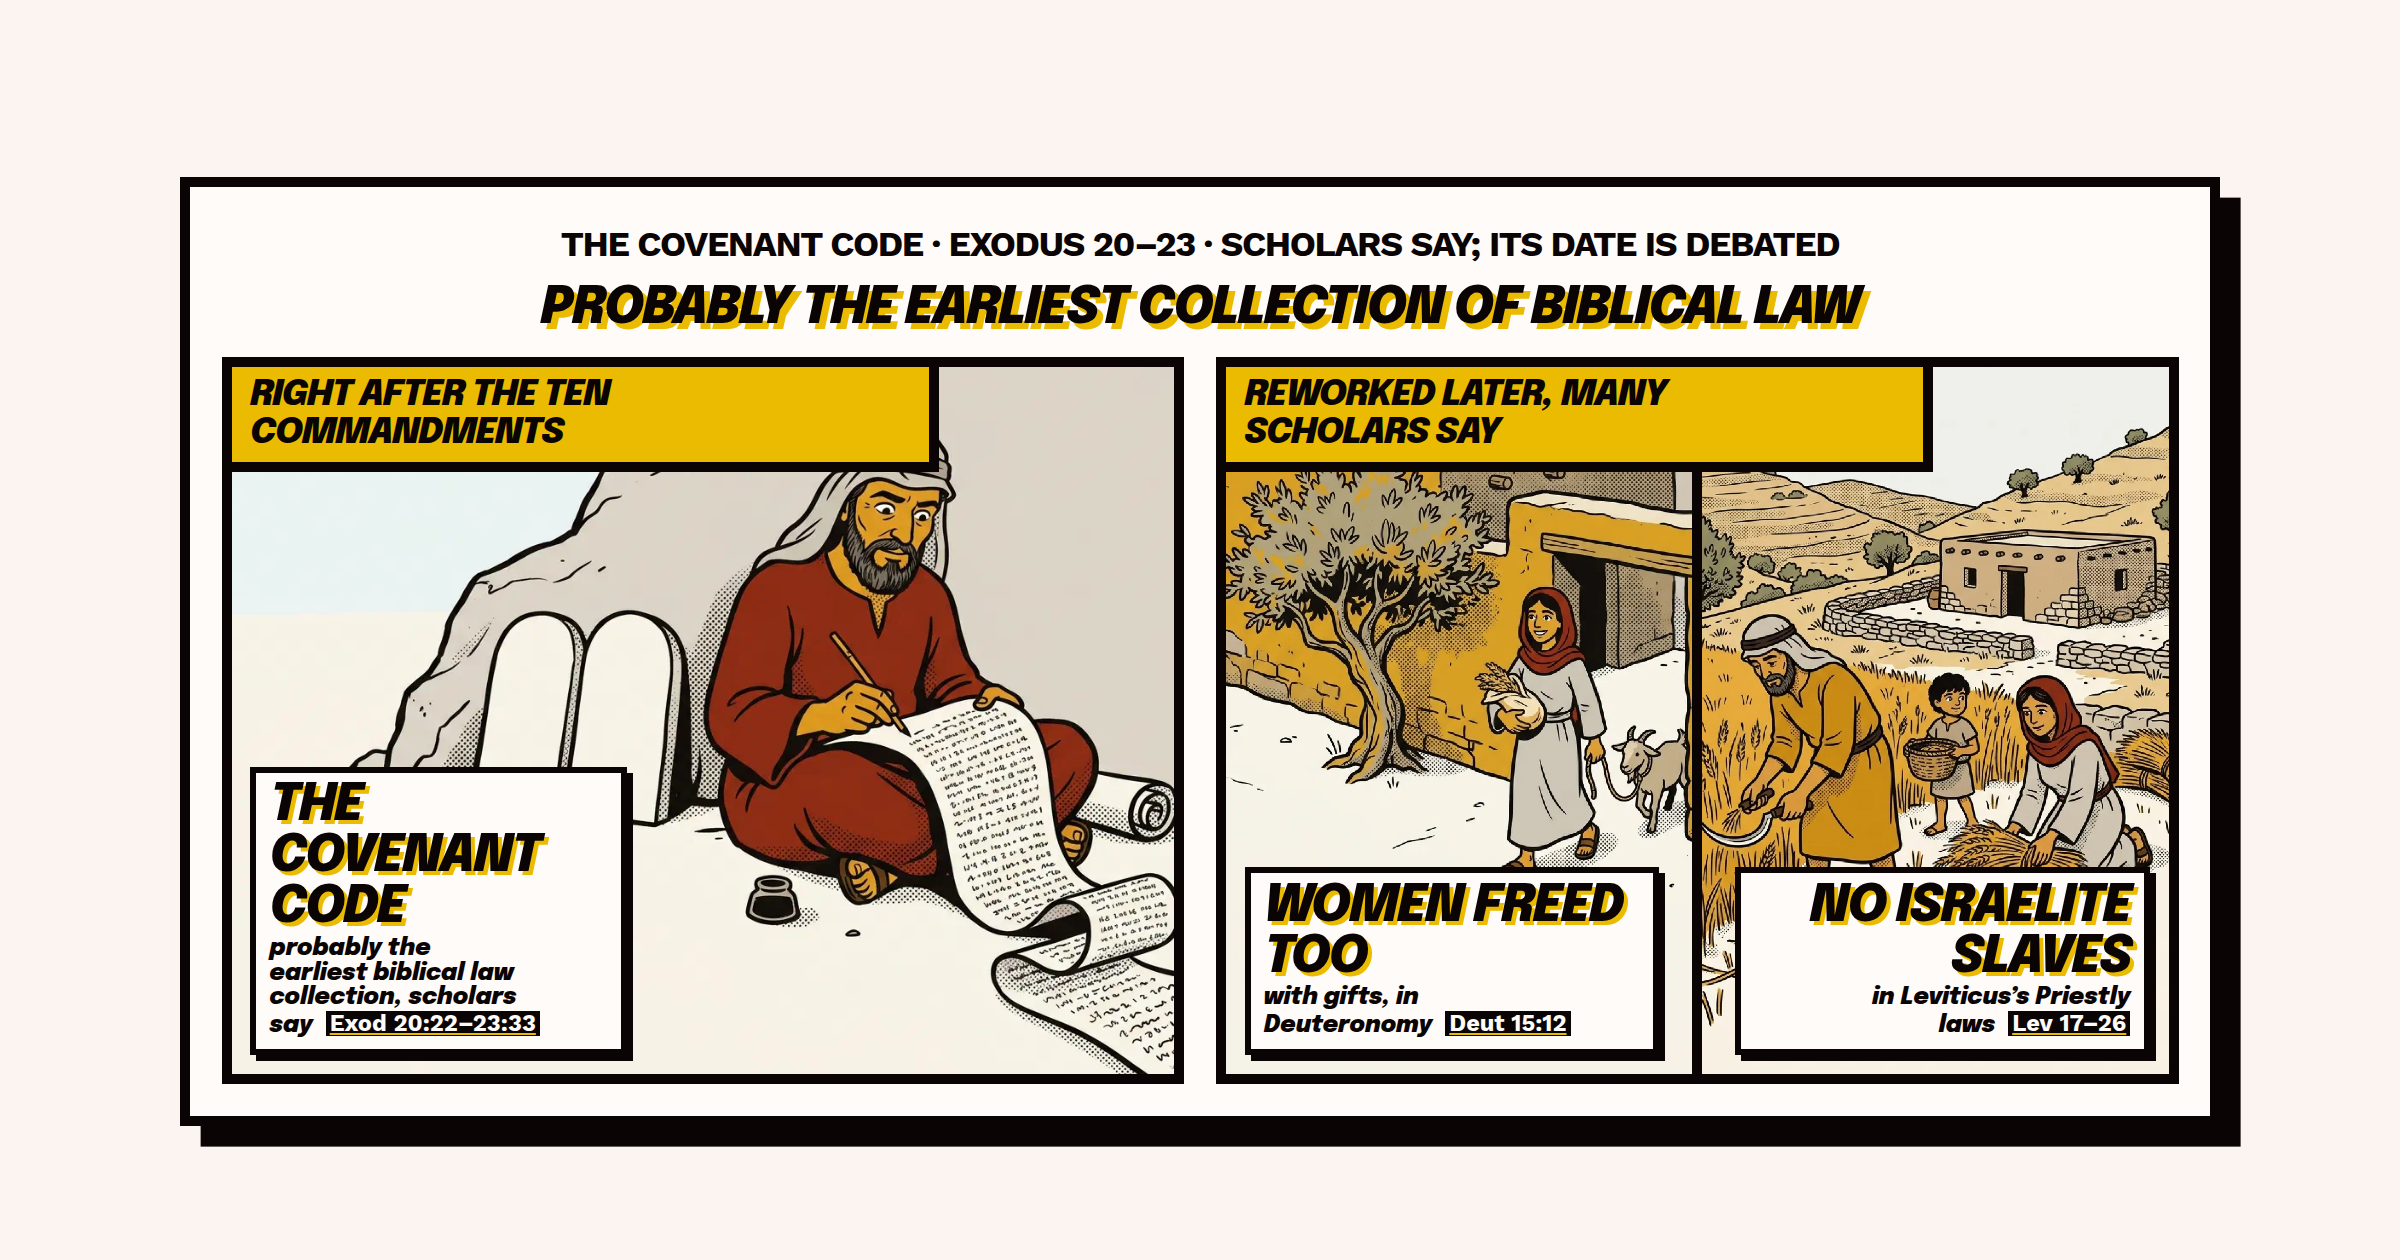
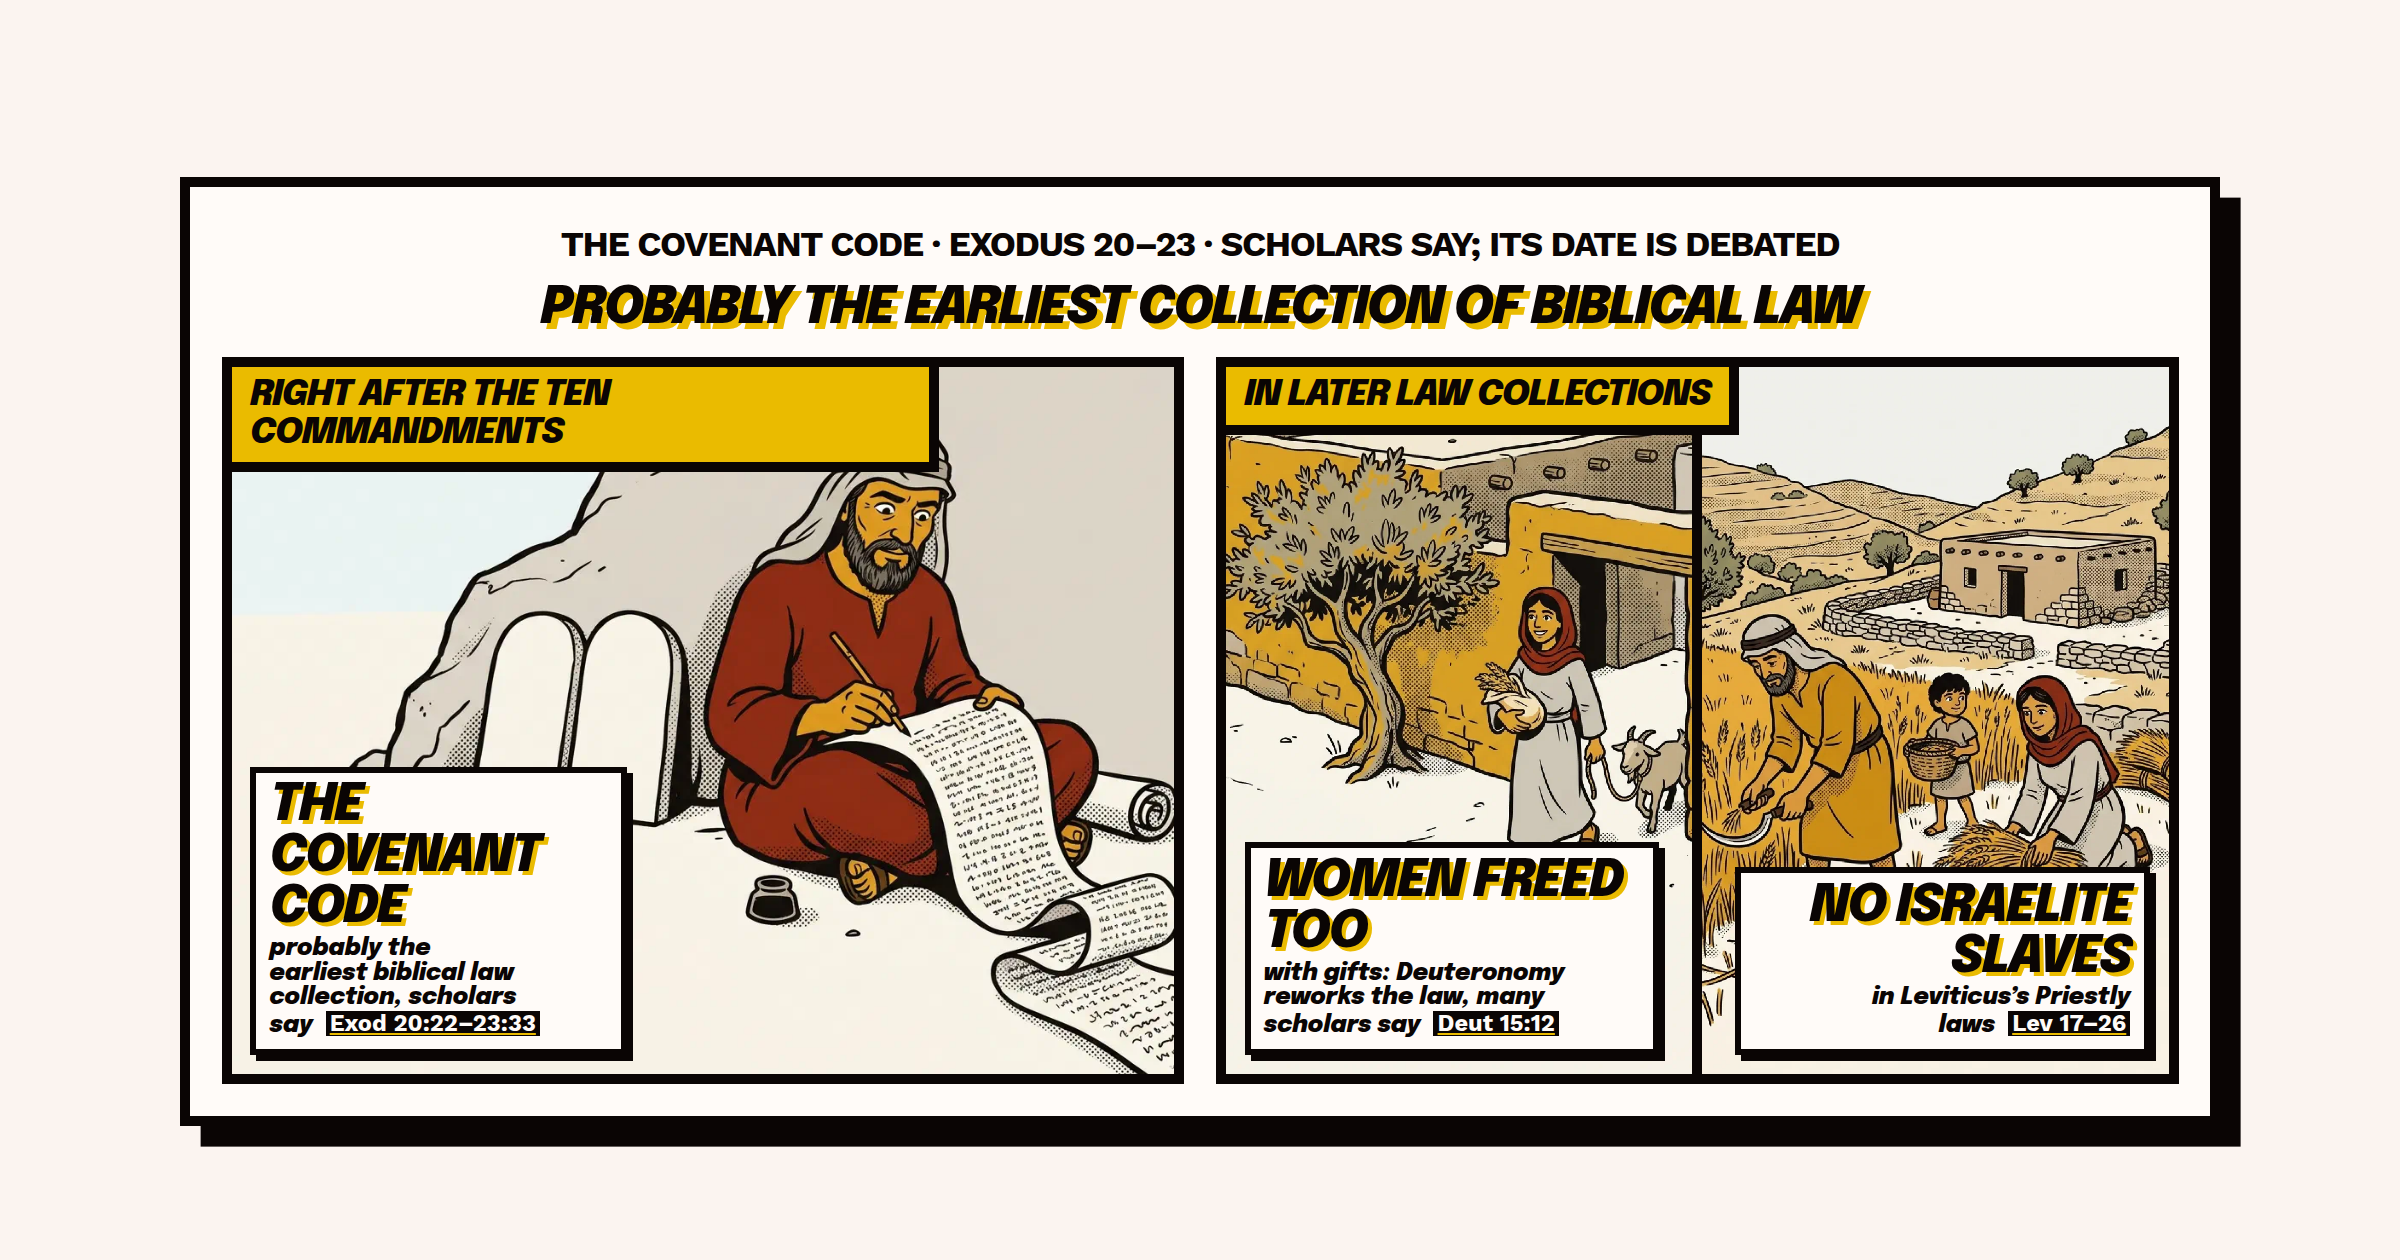
Tighten The Ten Commandments and the Covenant Code infographic marks (#158)

Changed region(s): [[0.5, 0.2786, 0.8125, 0.4024], [0.5, 0.65, 0.6875, 0.8357]]

diff --git a/hugo/layouts/partials/scholarship-custom/the-ten-commandments-and-the-covenant-code.html b/hugo/layouts/partials/scholarship-custom/the-ten-commandments-and-the-covenant-code.html
@@ -60,13 +60,13 @@
   "right" (dict "id" "scribe-ox" "alt" "The same Israelite scribe writes on his scroll while an ox looks over the wall behind him.")
   "plates" (slice
   (dict "pos" "bl" "big" "Hammurabi’s laws" "sub" "250–252: an ox that gores")
-  (dict "pos" "br" "big" "The same case" "sub" "direct borrowing or a shared tradition? Scholars disagree" "refs" (slice (dict "ref" "Exodus 21:28-36" "label" "Exod 21:28–36")))))
+  (dict "pos" "br" "big" "The same case" "sub" "direct borrowing or a shared tradition? Scholars disagree" "refs" (slice (dict "ref" "Exodus 21:28-32" "label" "Exod 21:28–32")))))
   (dict
-  "id" "reworked" "box" "Reworked later, many scholars say"
+  "id" "reworked" "box" "In later law collections"
   "left" (dict "id" "freed" "alt" "A young woman walks out through an open gateway with a bundle of grain and a goat, free to go.")
   "right" (dict "id" "own-field" "alt" "A farmer and his family work their own field of grain.")
   "plates" (slice
-  (dict "pos" "bl" "big" "Women freed too" "sub" "with gifts, in Deuteronomy" "refs" (slice (dict "ref" "Deuteronomy 15:12" "label" "Deut 15:12")))
+  (dict "pos" "bl" "big" "Women freed too" "sub" "with gifts: Deuteronomy reworks the law, many scholars say" "refs" (slice (dict "ref" "Deuteronomy 15:12" "label" "Deut 15:12")))
   (dict "pos" "br" "big" "No Israelite slaves" "sub" "in Leviticus’s Priestly laws" "refs" (slice (dict "ref" "Leviticus 17-26" "label" "Lev 17–26")))))
 -}}
 <section class="cloud-section tc-comic">
